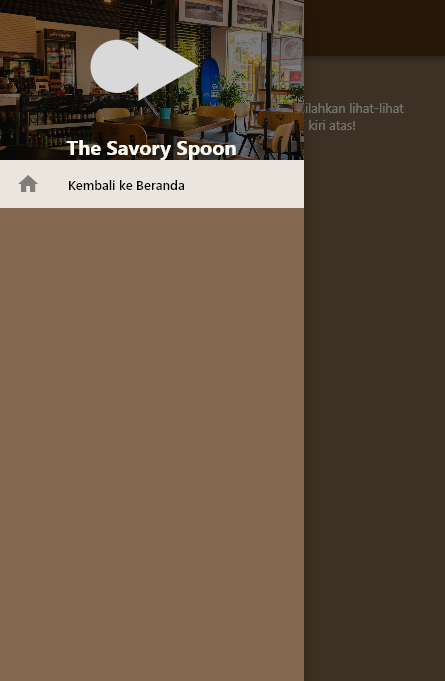
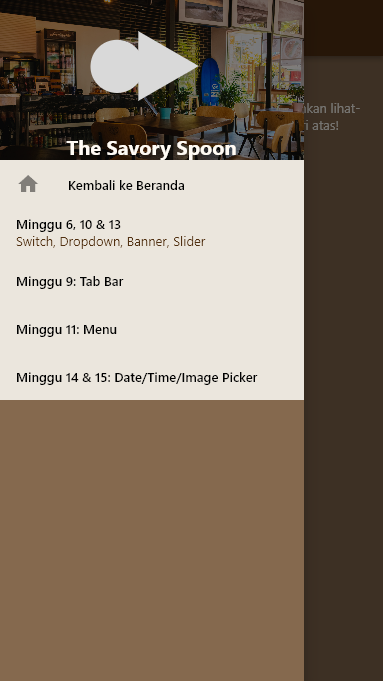
feat: screenshots, how to run project

diff --git a/mobile/lib/views/easter_egg/main.dart b/mobile/lib/views/easter_egg/main.dart
@@ -3,6 +3,7 @@ import 'dart:io';
 import 'package:cheetah_mobile/components/display/image.dart';
 import 'package:cheetah_mobile/helpers/styles.dart';
 import 'package:cheetah_mobile/views/easter_egg/menu.dart';
+import 'package:cheetah_mobile/views/easter_egg/page.dart';
 import 'package:cheetah_mobile/views/easter_egg/picker.dart';
 import 'package:cheetah_mobile/views/easter_egg/tab_bar.dart';
 import 'package:cheetah_mobile/views/easter_egg/webview.dart';
@@ -43,6 +44,16 @@ class EasterEggPage extends StatelessWidget {
             onTap: () => navigator.popUntil((route) => route.isFirst),
           ),
           ListTile(
+            title: const Column(
+              crossAxisAlignment: CrossAxisAlignment.start,
+              children: [
+                Text("Minggu 6, 10 & 13", style: TEXT_DEFAULT),
+                Text("Switch, Dropdown, Banner, Slider", style: TEXT_DETAIL),
+              ],
+            ),
+            onTap: () => navigator.push(MaterialPageRoute(builder: (context) => const MyPage())),
+          ),
+          ListTile(
             title: const Text("Minggu 9: Tab Bar", style: TEXT_DEFAULT),
             onTap: () => navigator.push(MaterialPageRoute(builder: (context) => const TabBarShowcasePage())),
           ),
@@ -74,6 +85,7 @@ class EasterEggPage extends StatelessWidget {
         decoration: const BoxDecoration(
           color: COLOR_PRIMARY_DARK,
         ),
+        width: double.maxFinite,
         padding: const EdgeInsets.all(GAP_LG),
         child: const Column(
           mainAxisSize: MainAxisSize.max,

diff --git a/mobile/lib/views/easter_egg/page.dart b/mobile/lib/views/easter_egg/page.dart
@@ -1,3 +1,4 @@
+import 'package:cheetah_mobile/helpers/constants.dart';
 import 'package:flutter/material.dart';
 
 class MyPage extends StatefulWidget {
@@ -144,13 +145,15 @@ class _MyPageState extends State<MyPage> {
 showBanner(BuildContext context) {
   return MaterialBanner(
     content: const Text('Ini adalah contoh banner'),
+    backgroundColor: COLOR_SECONDARY,
     leading: const Icon(
       Icons.info,
       color: Colors.orange,
     ),
     actions: [
       TextButton(
-        onPressed: () {},
+        onPressed: () =>
+            ScaffoldMessenger.of(context).hideCurrentMaterialBanner(),
         child: const Text('Agree'),
       ),
       TextButton(

diff --git a/mobile/screenshot/WidgetList.md b/mobile/screenshot/WidgetList.md
@@ -26,6 +26,14 @@
 - RadioListTile
 (Radio tadi sudah ada di minggu3.1.png)
 
+## Minggu 6
+
+### minggu6.1.png
+- Switch
+
+### minggu6.2.png
+- Dropdown
+
 ## Minggu 7
 
 ### minggu7.png
@@ -49,6 +57,9 @@
 ### minggu10.2.png
 - Dialog
 
+### minggu10.3.png
+- Banner
+
 ## Minggu 11
 
 ### minggu11.1
@@ -70,8 +81,19 @@
 ### minggu13.1.png
 - Tooltip
 
-### minggu13.1.png
+### minggu13.2.png
 - CircularProgressIndicator
+
+### minggu13.3.png
+- Slider
+
+## Minggu 14
+
+### minggu14.2.png
+- Date Picker
+
+### minggu 14.3.png
+- Time Picker
 
 ## Minggu 15
 
@@ -80,3 +102,7 @@
 
 ### minggu15.2.jpeg
 - WebView
+
+### minggu15.3.jpeg
+- ImagePicker
+- GestureDetector
